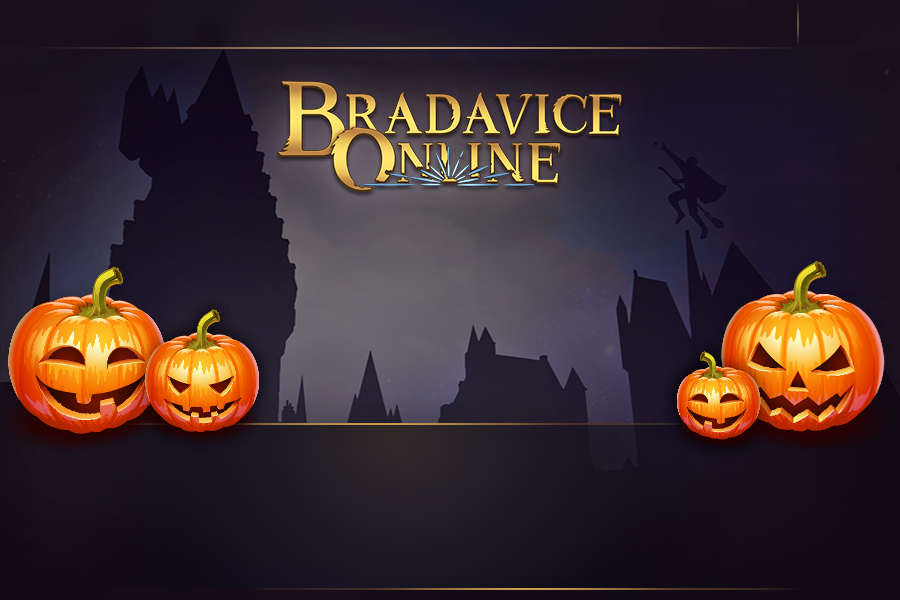
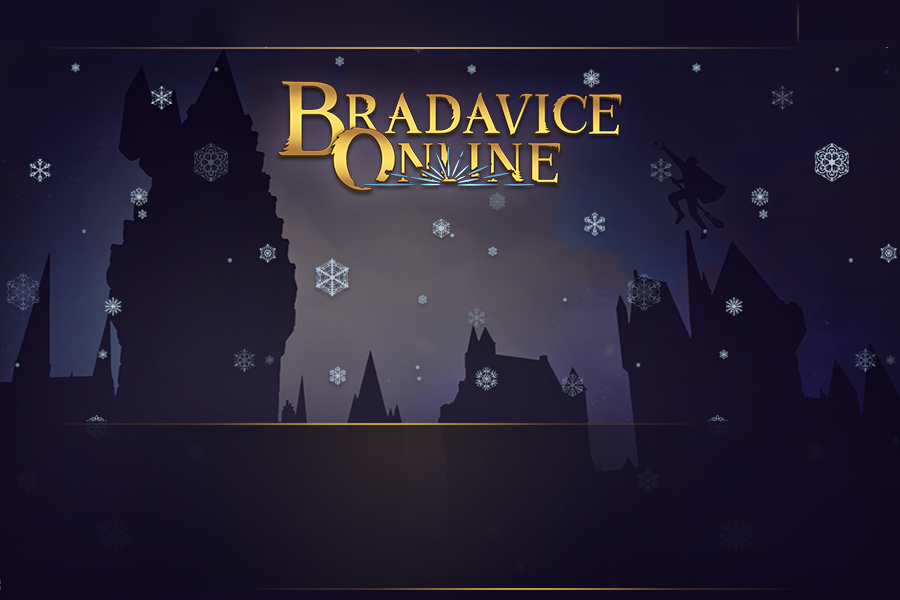
change xmass theme to winter theme

diff --git a/main.js b/main.js
@@ -1,4 +1,3 @@
-const { ifError } = require("assert");
 const { app, BrowserWindow, ipcMain } = require("electron");
 const fs = require("fs");
 const https = require("https");
@@ -13,8 +12,6 @@ if (process.env.IS_DEV){
 }
 
 const userDataPath = app.getPath("userData");
-
-console.log(userDataPath)
 
 autoUpdater.logger = require("electron-log")
 autoUpdater.logger.transports.file.level = "info"
@@ -155,7 +152,7 @@ function deleteCache() {
 
 //Compares local patche.json vs serverPatche.json and returns list of patches, which needs to be downloaded
 async function isUpToDate() {
-  const localPatcheData = await readFile(`${userDataPath}/patche.json`);
+  const localPatcheData = await readFile(`../patche.json`);
   let serverPatcheData = await getServerPatcheInfo();
 
   localDataObject = localPatcheData;
@@ -196,7 +193,7 @@ async function downloadPatches(downloadList) {
           serverPatcheInfoData[downloadList[i]];
         let dataToSave = JSON.stringify(localDataObject);
         console.log(localDataObject);
-        writeFile(`${userDataPath}/patche.json`, dataToSave);
+        writeFile(`../patche.json`, dataToSave);
       }
     );
   }
@@ -214,8 +211,8 @@ async function main () {
   
   win.webContents.send("is-gm-on", GM_ON);
 
-  if (!fs.existsSync(`${userDataPath}/patche.json`)) {
-    writeFile(`${userDataPath}/patche.json`, JSON.stringify(localDataObject), true);
+  if (!fs.existsSync(`../patche.json`)) {
+    writeFile(`../patche.json`, JSON.stringify(localDataObject), true);
   }
 
   await isUpToDate().then(async (downloadList) => {
@@ -232,14 +229,14 @@ async function main () {
 
   ipcMain.on("mute", (event, isMuted) => {
     localDataObject.options.muted = isMuted;
-    writeFile(`${userDataPath}/patche.json`, JSON.stringify(localDataObject));
+    writeFile(`../patche.json`, JSON.stringify(localDataObject));
   });
 
   //When user checks or unchecks the night checkbox
   if (GM_ON) {
     ipcMain.on("night-check", (event, checked) => {
       localDataObject.options.night = checked;
-      writeFile(`${userDataPath}/patche.json`, JSON.stringify(localDataObject));
+      writeFile(`../patche.json`, JSON.stringify(localDataObject));
       win.webContents.send("playable", false);
 
       //if checkbox is checked -> delete patch-U
@@ -288,14 +285,6 @@ async function main () {
     subprocess.unref();
     app.quit();
   });
-
-  ipcMain.on("close-me", (event, args)=>{
-    app.quit();
-  })
-
-  ipcMain.on("minimize-me", (event, args)=>{
-    win.minimize();
-  })
 }
 
 function createWindow(width, height) {
@@ -336,6 +325,14 @@ autoUpdater.on('update-not-available', (info) => {
   win.webContents.on("ready-to-show", async () => {
    await main();
   });
+
+  ipcMain.on("close-me", (event, args)=>{
+    app.exit(0);
+  })
+
+  ipcMain.on("minimize-me", (event, args)=>{
+    win.minimize();
+  })
 })
 
 autoUpdater.on('update-available', (info) => {

diff --git a/preload.js b/preload.js
@@ -13,7 +13,7 @@ const API = {
   isPlayable: (callback) => {
     ipcRenderer.on("playable", callback);
   },
-  launchWow: () => {
+  launchGame: () => {
     ipcRenderer.send("launch-wow");
   },
   handleAudioButton: (isMuted) => {

diff --git a/renderMain.js b/renderMain.js
@@ -60,7 +60,7 @@ window.api.isMuted((event, isMuted) => {
 });
 
 button.addEventListener("click", () => {
-  window.api.launchWOw();
+  window.api.launchGame();
 });
 
 closeBtn.addEventListener("click", () =>{
